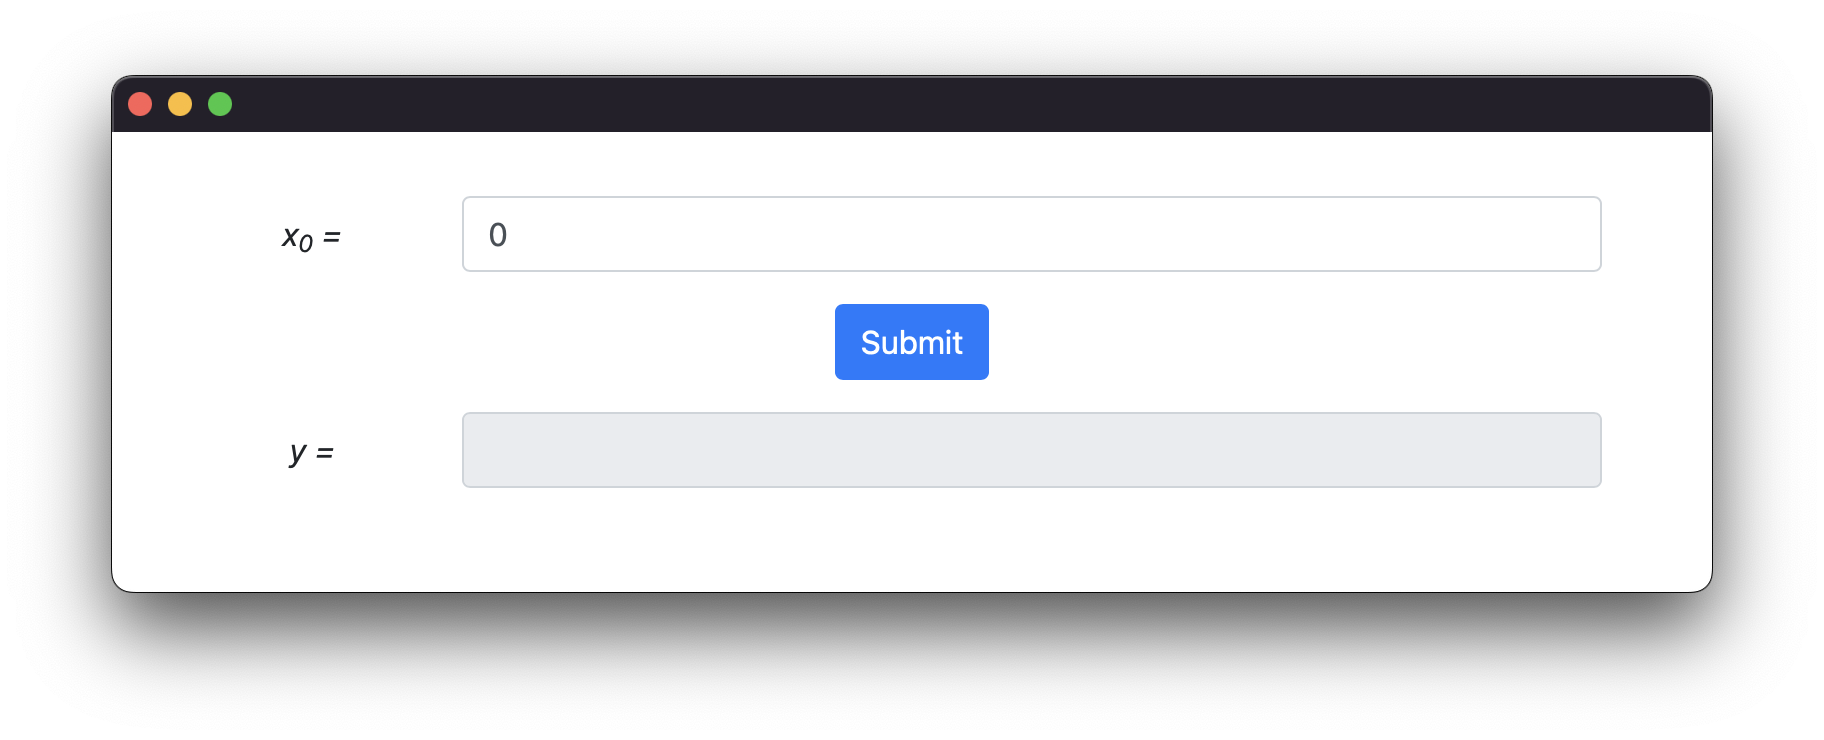
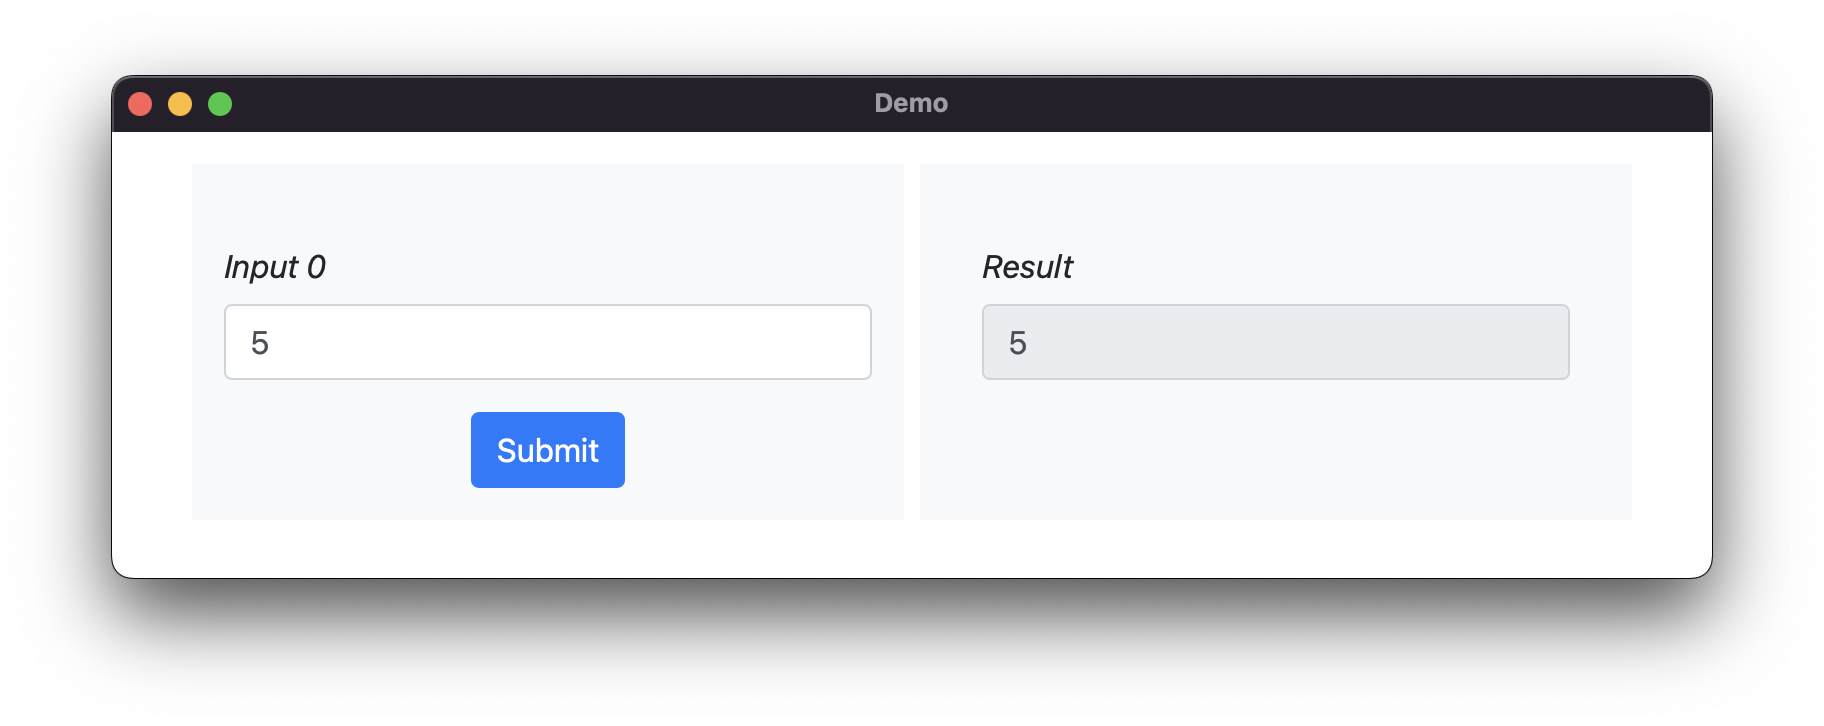
Updated formatting and updated examples

diff --git a/src/lib.rs b/src/lib.rs
@@ -4,7 +4,8 @@
 #![warn(clippy::missing_docs_in_private_items)]
 #![doc = include_str!("../README.md")]
 
-use std::{cell::RefCell, collections::HashMap};
+use std::fmt::Formatter;
+use std::{cell::RefCell, collections::HashMap, fmt};
 
 use wry::{
     application::{
@@ -18,21 +19,28 @@ use wry::{
 pub mod cookbook;
 
 mod html_chunks;
-use html_chunks::{add_dropdown, add_number, add_slider, beginning, end};
+use html_chunks::{add_dropdown, add_number, add_slider, beginning, end, middle};
 
-#[derive(Clone)]
 /// Types of inputs for the model
+#[derive(Clone)]
 pub enum Input {
     /// A numerical input
     Number {
-        /// Label to be shown at left. If value is `None`, a default of the form $x_N$ will be shown.
+        /// Label to be shown above input. If value is `None`, a default of the form _Input N_ will be shown.
         label: Option<String>,
         /// Initial value to shown in the textbox
         initial_value: f64,
     },
+    // /// A textual input
+    // Text {
+    //     /// Label to be shown above input. If value is `None`, a default of the form _Input N_ will be shown.
+    //     label: Option<String>,
+    //     /// Initial value to shown in the textbox
+    //     initial_value: String,
+    // },
     /// A slider input
     Slider {
-        /// Label to be shown at left. If value is `None`, a default of the form $x_N$ will be shown.
+        /// Label to be shown above input. If value is `None`, a default of the form _Input N_ will be shown.
         label: Option<String>,
         /// Minimum value at far left of slider
         min: f64,
@@ -45,21 +53,41 @@ pub enum Input {
     },
     /// A dropdown input
     Dropdown {
-        /// Label to be shown at left. If value is `None`, a default of the form $x_N$ will be shown.
+        /// Label to be shown above input. If value is `None`, a default of the form _Input N_ will be shown.
         label: Option<String>,
         /// Set of options to include in the dropdown
         options: Vec<f64>,
         /// Initial value to show for the dropdown
         initial_value: usize,
     },
-    /// A dropdown input
-    Tab {
-        /// Label to be shown on tab
-        label: String,
-        /// List of inputs to be shown in tab
-        inputs: Vec<Input>,
-    },
+    // /// A radio button selector
+    // Radio {
+    //     /// Label to be shown above input. If value is `None`, a default of the form _Input N_ will be shown.
+    //     label: Option<String>,
+    //     /// Set of options to include in the selection
+    //     options: Vec<f64>,
+    // },
+    // /// An area to upload a file. Specifying a file type will add a preview of the file after loading.
+    // File {
+    //     /// Label to be shown above input. If value is `None`, a default of the form _Input N_ will be shown.
+    //     label: Option<String>,
+    //     /// Type of file. If value is `None`, not preview of file will be given.
+    //     filetype: Option<TypeOfFile>,
+    // },
 }
+
+// /// File types with custom file previews
+// #[derive(Clone)]
+// pub enum TypeOfFile {
+//     /// Reads and previews image files
+//     Image,
+//     /// Reads and previews audio files
+//     Audio,
+//     /// Reads and previews 3D models
+//     Model,
+//     /// Reads and previews CSVs
+//     CSV,
+// }
 
 impl Input {
     fn get_html(&self, idx: usize) -> String {
@@ -80,13 +108,16 @@ impl Input {
                 options,
                 label,
             } => add_dropdown(idx, initial_value, options, label),
-            Input::Tab { label, inputs } => {
-                let mut html = "however a tab starts".to_string();
-                for (jdx, input) in inputs.iter().enumerate() {
-                    html = format!("{} {}", html, input.get_html(jdx));
-                }
-                format!("{} however a tab ends", html)
-            }
+            // Input::File { label, filetype } => match filetype {
+            //     Some(ft) => match ft {
+            //         TypeOfFile::Image => "".to_string(),
+            //         TypeOfFile::Audio => "".to_string(),
+            //         TypeOfFile::Model => "".to_string(),
+            //         TypeOfFile::CSV => "".to_string(),
+            //     },
+            //     None => "".to_string(),
+            // },
+            _ => "".to_string(),
         }
     }
 }
@@ -100,11 +131,57 @@ impl Default for Input {
     }
 }
 
+/// Types of outputs for the model
+pub enum Output {
+    /// A numerical input
+    Number {
+        /// Label to be shown above output. If value is `None`, a default of the form _Result N_ will be shown.
+        label: Option<String>,
+    },
+    // Vector {
+    //     label: Option<String>,
+    // },
+    // Text {
+    //     label: Option<String>,
+    // },
+    // File {
+    //     label: Option<String>,
+    //     filetype: TypeOfFile,
+    // },
+    // HTML {
+    //     label: Option<String>,
+    // },
+}
+
+impl Default for Output {
+    fn default() -> Self {
+        Self::Number {
+            label: Some("Result".to_string()),
+        }
+    }
+}
+
+impl Output {
+    fn get_html(&self) -> String {
+        let label = match self {
+            Output::Number { label } => match label {
+                None => {
+                    format!("Result")
+                }
+                Some(string) => string.to_string(),
+            },
+        };
+        format!("<label for=\"output\" class=\"col-form-label mt-3\"><i>{label}</i></label>
+         <input type=\"text\" class=\"form-control\" id=\"output\" name=\"output\" aria-describedby=\"output\" readonly>")
+    }
+}
+
 /// Construct a teaser to demonstrate your model
 pub struct Teaser {
     title: String,
     description: String,
     inputs: Vec<Input>,
+    output: Output,
     function: Box<dyn 'static + Fn(Vec<f64>) -> f64>,
 }
 
@@ -114,6 +191,7 @@ impl Default for Teaser {
             title: "Demo".to_string(),
             description: "".to_string(),
             inputs: vec![Input::default()],
+            output: Output::default(),
             function: Box::new(|x| x[0]),
         }
     }
@@ -138,6 +216,12 @@ impl Teaser {
         self
     }
 
+    /// Specify the inputs
+    pub fn with_output(mut self, output: Output) -> Self {
+        self.output = output;
+        self
+    }
+
     /// Specify the function to use
     pub fn with_function<F>(mut self, predictor: F) -> Self
     where
@@ -157,7 +241,7 @@ impl Teaser {
         for (idx, input) in self.inputs.iter().enumerate() {
             html = format!("{} {}", html, input.get_html(idx));
         }
-        html = format!("{} {}", html, end());
+        html = format!("{} {} {} {}", html, middle(), self.output.get_html(), end());
 
         let event_loop = EventLoop::new();
         let window = WindowBuilder::new()

diff --git a/examples/smartcore.rs b/examples/smartcore.rs
@@ -1,6 +1,6 @@
 use smartcore::linalg::naive::dense_matrix::DenseMatrix;
 use smartcore::linear::linear_regression::{LinearRegression, LinearRegressionParameters};
-use tease::{Input, Teaser};
+use tease::{Input, Output, Teaser};
 
 fn main() {
     let model = train_linear_regression();
@@ -10,7 +10,12 @@ fn main() {
             "This demonstration runs a <a href=\"https://smartcorelib.org/\"> Smartcore</a> model and shows the results in real time."
                 .to_string(),
         )
+        .with_output(Output::Number{label: Some("Total Employment".to_string())})
         .with_inputs(vec![
+            Input::Number {
+                label: Some("GNP Deflator".to_string()),
+                initial_value: 83.0,
+            },
             Input::Number {
                 label: Some("GNP".to_string()),
                 initial_value: 234.289,
@@ -24,7 +29,7 @@ fn main() {
                 min: 140.0,
                 max: 300.0,
                 step: 0.1,
-                initial_value: 200.0,
+                initial_value: 159.0,
             },
             Input::Number {
                 label: Some("Population".to_string()),
@@ -34,10 +39,6 @@ fn main() {
                 label: Some("Year".to_string()),
                 options: (1940..2022).step_by(1).map(f64::from).collect(),
                 initial_value: 0,
-            },
-            Input::Number {
-                label: Some("Total Employment".to_string()),
-                initial_value: 60.323,
             },
         ])
         .with_function(move |x| {
@@ -51,27 +52,27 @@ fn main() {
 pub fn train_linear_regression() -> LinearRegression<f64, DenseMatrix<f64>> {
     // Longley dataset (https://www.statsmodels.org/stable/datasets/generated/longley.html)
     let x = DenseMatrix::from_2d_array(&[
-        &[234.289, 235.6, 159.0, 107.608, 1947., 60.323],
-        &[259.426, 232.5, 145.6, 108.632, 1948., 61.122],
-        &[258.054, 368.2, 161.6, 109.773, 1949., 60.171],
-        &[284.599, 335.1, 165.0, 110.929, 1950., 61.187],
-        &[328.975, 209.9, 309.9, 112.075, 1951., 63.221],
-        &[346.999, 193.2, 359.4, 113.270, 1952., 63.639],
-        &[365.385, 187.0, 354.7, 115.094, 1953., 64.989],
-        &[363.112, 357.8, 335.0, 116.219, 1954., 63.761],
-        &[397.469, 290.4, 304.8, 117.388, 1955., 66.019],
-        &[419.180, 282.2, 285.7, 118.734, 1956., 67.857],
-        &[442.769, 293.6, 279.8, 120.445, 1957., 68.169],
-        &[444.546, 468.1, 263.7, 121.950, 1958., 66.513],
-        &[482.704, 381.3, 255.2, 123.366, 1959., 68.655],
-        &[502.601, 393.1, 251.4, 125.368, 1960., 69.564],
-        &[518.173, 480.6, 257.2, 127.852, 1961., 69.331],
-        &[554.894, 400.7, 282.7, 130.081, 1962., 70.551],
+        &[83.0, 234.289, 235.6, 159.0, 107.608, 1947.],
+        &[88.5, 259.426, 232.5, 145.6, 108.632, 1948.],
+        &[88.2, 258.054, 368.2, 161.6, 109.773, 1949.],
+        &[89.5, 284.599, 335.1, 165.0, 110.929, 1950.],
+        &[96.2, 328.975, 209.9, 309.9, 112.075, 1951.],
+        &[98.1, 346.999, 193.2, 359.4, 113.270, 1952.],
+        &[99.0, 365.385, 187.0, 354.7, 115.094, 1953.],
+        &[100.0, 363.112, 357.8, 335.0, 116.219, 1954.],
+        &[101.2, 397.469, 290.4, 304.8, 117.388, 1955.],
+        &[104.6, 419.180, 282.2, 285.7, 118.734, 1956.],
+        &[108.4, 442.769, 293.6, 279.8, 120.445, 1957.],
+        &[110.8, 444.546, 468.1, 263.7, 121.950, 1958.],
+        &[112.6, 482.704, 381.3, 255.2, 123.366, 1959.],
+        &[114.2, 502.601, 393.1, 251.4, 125.368, 1960.],
+        &[115.7, 518.173, 480.6, 257.2, 127.852, 1961.],
+        &[116.9, 554.894, 400.7, 282.7, 130.081, 1962.],
     ]);
 
     let y: Vec<f64> = vec![
-        83.0, 88.5, 88.2, 89.5, 96.2, 98.1, 99.0, 100.0, 101.2, 104.6, 108.4, 110.8, 112.6, 114.2,
-        115.7, 116.9,
+        60.323, 61.122, 60.171, 61.187, 63.221, 63.639, 64.989, 63.761, 66.019, 67.857, 68.169,
+        66.513, 68.655, 69.564, 69.331, 70.551,
     ];
 
     let lr = LinearRegression::fit(&x, &y, LinearRegressionParameters::default()).unwrap();

diff --git a/src/html_chunks.rs b/src/html_chunks.rs
@@ -1,3 +1,5 @@
+// use crate::Output;
+
 pub(crate) fn add_number(index: usize, initial_value: &f64, label: &Option<String>) -> String {
     let html_label = match label {
         None => {
@@ -22,7 +24,7 @@ pub(crate) fn add_slider(
 ) -> String {
     let html_label = match label {
         None => {
-            format!("x<sub>{index}</sub> = ")
+            format!("Input {index}")
         }
         Some(string) => string.to_string(),
     };
@@ -43,7 +45,7 @@ pub(crate) fn add_dropdown(
 ) -> String {
     let html_label = match label {
         None => {
-            format!("x<sub>{index}</sub> = ")
+            format!("Input {index}")
         }
         Some(string) => string.to_string(),
     };
@@ -92,12 +94,8 @@ pub(crate) fn beginning(description: String) -> String {
                             <div class=\"form-group row\" id=\"input-group\">")
 }
 
-pub(crate) fn end() -> String {
-    let jquery = include_str!("bootstrap/jquery-3.3.1.slim.min.js");
-    let popper = include_str!("bootstrap/popper.min.js");
-    let bootstrap = include_str!("bootstrap/bootstrap.min.js");
-
-    format!("                        </div>
+pub(crate) fn middle() -> String {
+    "                        </div>
 
                             <div class=\"form-group \" id=\"submit\">
                                 <button type=\"submit\" class=\"btn btn-primary\">Submit</button>
@@ -106,10 +104,17 @@ pub(crate) fn end() -> String {
                     </div>
 
                     <div class=\"col bg-light ml-1\">
-                        <div class=\"form-group m-3\" id=\"output-group\">
-                            <label for=\"output\" class=\"col-form-label mt-3\"><i>Result</i></label>
-                            <input type=\"text\" class=\"form-control\" id=\"output\" name=\"output\" aria-describedby=\"output\" readonly>
-                        </div>
+                        <div class=\"form-group m-3\" id=\"output-group\">"
+        .to_string()
+}
+
+pub(crate) fn end() -> String {
+    let jquery = include_str!("bootstrap/jquery-3.3.1.slim.min.js");
+    let popper = include_str!("bootstrap/popper.min.js");
+    let bootstrap = include_str!("bootstrap/bootstrap.min.js");
+
+    format!(
+        "                    </div>
                     </div>
                 </div>
             </div>
@@ -118,5 +123,6 @@ pub(crate) fn end() -> String {
             <script>{popper}</script>
             <script>{bootstrap}</script>
         </body>
-    </html>")
+    </html>"
+    )
 }
